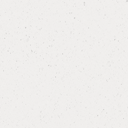
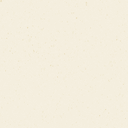
new images and closer to reeder theme

diff --git a/reeder.css b/reeder.css
@@ -3,8 +3,7 @@ Tiny Tiny RSS Reeder Theme
 Author: zas
 Email: zaswiki@gmail.com
 */
-@import url(http://fonts.googleapis.com/css?family=Open+Sans);
-
+@import url(http://fonts.googleapis.com/css?family=Open+Sans:400italic,600italic,700italic,800italic,400,600,700,800);
 /************************************************************
 * Global Settings
 */
@@ -29,6 +28,7 @@ div.postTitle a{
 .dijitTree {
   background-color: #aba99d;
 	background-image: url(reeder_img/reeder_bg_dark.png);
+	background-image: url(reeder_img/reeder_stripes.png), url(reeder_img/reeder_bg_dark.png);
   color: #aba99d;
 }
 #ttrssMain .dijitTreeExpando {
@@ -51,7 +51,7 @@ div.postTitle a{
 #ttrssMain .dijitTreeNode .dojoDndItemBefore,
 #ttrssMain .dijitTreeNode .dojoDndItemAfter {
   background-color: #aba99d;
-	background-image: url(reeder_img/reeder_bg_dark.png);
+	background-image: url(reeder_img/reeder_stripes.png), url(reeder_img/reeder_bg_dark.png);
 	color: #4f4e48;
   display: block;
   font-size: 12px;
@@ -62,12 +62,12 @@ div.postTitle a{
 #ttrssMain .dijitTreeNode .dojoDndItemBeforeHover,
 #ttrssMain .dijitTreeNode .dojoDndItemAfterHover {
   background-color: #aba99d;
-	background-image: url(reeder_img/reeder_bg_darker.png);
+	background-image: url(reeder_img/reeder_stripes.png), url(reeder_img/reeder_bg_darker.png);
 	color: #4f4e48;
 }
 #ttrssMain .dijitTreeRowSelected {
   background-color: #aba99d;
-	background-image: url(reeder_img/reeder_bg_darker.png);
+	background-image: url(reeder_img/reeder_stripes.png), url(reeder_img/reeder_bg_darker.png);
   color: #4f4e48;
 }
 #ttrssMain .dijitTreeLabel {
@@ -76,8 +76,7 @@ div.postTitle a{
 }
 #ttrssMain .dijitTreeIsRoot > .dijitTreeRow {
   background-color: #bebcbo;
-  border-bottom: 1px solid #cecece !important;
-  border-top: 1px solid #fdfdfd !important;
+  border-top: 1px solid #bebcb0 !important;
   color: #4f4e48;
   display: block;
   font-size: 14px;
@@ -86,7 +85,7 @@ div.postTitle a{
 }
 #ttrssMain .dijitTreeIsRoot > .dijitTreeRowHover {
   background.color: #aba99d;
-	background-image: url(reeder_img/reeder_bg_darker.png);
+	background-image: url(reeder_img/reeder_stripes.png), url(reeder_img/reeder_bg_darker.png);
 	color: #4f4e48;
 }
 #ttrssMain .dijitSplitterV,
@@ -100,10 +99,19 @@ div.postTitle a{
 #ttrssMain div#headlines-toolbar,
 #ttrssMain .dijitToolbar {
   background: #e9e6d7;
+	background-image: url(reeder_img/reeder_bg_bright.png);
   color: #4f4e48;
-  border: 0 !important;
-	bottom: 0;
+	border: none;
   padding: 6px 0 2px 4px;
+}
+
+#ttrssMain div#headlines-toolbar {
+	border-bottom: 1px solid #bebcb0;
+}
+
+#ttrssMain div#headlines-wrap-inner,
+div#headlines-frame {
+  background-image: url(reeder_img/reeder_bg_bright.png);
 }
 #ttrssMain div#headlines-toolbar a,
 #ttrssMain .dijitToolbar a {
@@ -231,7 +239,6 @@ div.postTitle a{
 }
 #feeds-holder,
 #content-wrap {
-  /*border-color: #00ff00;*/
   border-width: 0;
 }
 
@@ -263,11 +270,23 @@ div.postReply a:hover {
 
 div.cdm.expandable,
 div.cdm.expanded,
+div.cdm.expanded.Unread,
+div.cdm.expandable.Unread {
+  background: #e9e6d7;
+	background-image: url(reeder_img/reeder_bg_dark.png);
+	border: 1px solid #bebcb0;
+	border-top: 1px solid #bebcb0;
+	position:relative;
+	margin-top: -1px;
+}
+
+/*div.cdm.expandable,*/
+div.cdm.expandable.Selected.active,
 div.cdm.active,
 div.hl.active.Selected,
 div.postReply {
 	background: #e9e6d7;
-	background-image: url(reeder_img/reeder_bg_bright.png);
+	background-image: url(reeder_img/reeder_bg_dark.png);
   border: 1px solid #bebcb0;
   border-radius: 10px;
   -moz-border-radius: 10px;
@@ -276,9 +295,8 @@ div.postReply {
   position: relative;
 }
 
-div.cdm.expandable.Selected.active,
 div.hl.active.Selected,
-div.cdmexpanded.Selected.active,
+div.cdm.expanded.Selected.active,
 div.content-insert{
 	border: 1px solid #bebcb0;
   /*
@@ -294,12 +312,18 @@ div.postTitle {
 	padding-top: 20px;
 }
 
+div.cdmHeader {
+  background-image: url(reeder_img/reeder_bg_dark.png);
+}
+
 div.cdmContent {
+	background-image: url(reeder_img/reeder_bg_dark.png);
 	padding: 10px;
 }
 
 div.cdmFooter {
 	font-size: 12px !important;
+	background-image: url(reeder_img/reeder_bg_dark.png);
 	padding:10px;
 }
 
@@ -368,6 +392,10 @@ img[src*="images/indicator_tiny.gif"] {
 	background-image: url(reeder_img/linen_bg.png);
   color: #4f4e48;
 }
+div.insensitive{
+  color: #4f4e48;
+
+}
 #overlay_inner {
   position: absolute;
   top: 50%;
@@ -375,8 +403,8 @@ img[src*="images/indicator_tiny.gif"] {
   margin-top: -50px;
   margin-left: -220px;
   text-align: center;
-  background-color: #aba990;
-	background-image: url(reeder_img/reeder_bg_dark.png);
+  background-color: #e9e6d7;
+	background-image: url(reeder_img/reeder_stripes.png); url(reeder_img/reeder_bg_dark.png);
 	-moz-box-shadow:    0px 0px 30px 0px #636260;
   -webkit-box-shadow: 0px 0px 30px 0px #636260;
   box-shadow:         0px 0px 30px 0px #636260;
@@ -390,8 +418,6 @@ img[src*="images/indicator_tiny.gif"] {
 }
 #overlay_inner .dijitProgressBarEmpty {
   border: 0;
-  background-color: #aba99d;
-  border-radius: 4px;
 }
 #overlay_inner .dijitProgressBarTile {
   border-radius: 3px;
